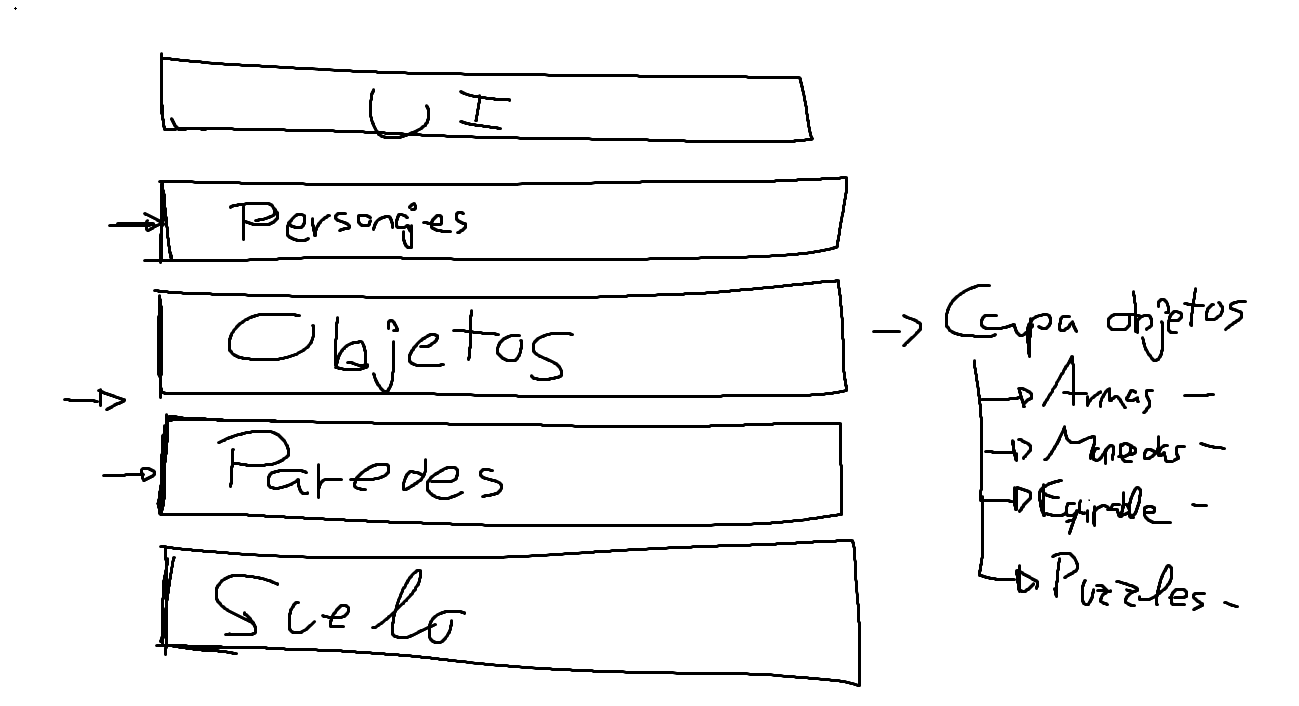
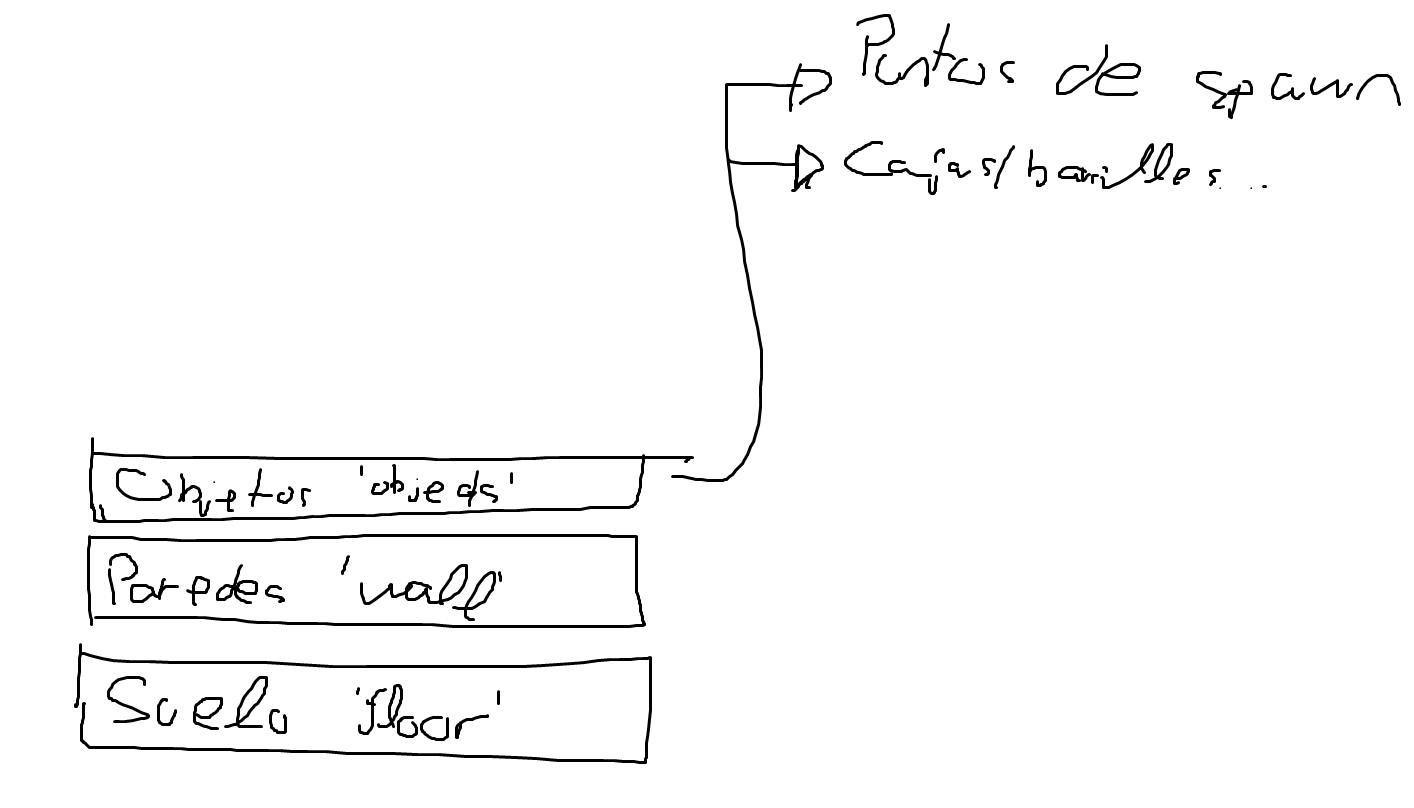
Intento avances monedas

diff --git a/src/scenes/BaseScene.js b/src/scenes/BaseScene.js
@@ -1,7 +1,6 @@
 import Phaser from 'phaser'
 import Player from '../game-objects/characters/Player.js'
 import Bullet from '../game-objects/base-game-objects/Bullet.js'
-import ExtendedEnemy from '../game-objects/characters/ExtendedEnemy.js'
 import Coin from '../game-objects/objects/Coin.js'
 import Options from '../options-manager/Options.js'
 
@@ -10,8 +9,8 @@ export default class BaseScene extends Phaser.Scene {
 
     static LAYER_SUELO = 'floor'
     static LAYER_PARED = 'wall'
-    static LAYER_OBJETO = 'butano'
-    static LAYER_PERSONAJE = 'Personaje'
+    static LAYER_OBJETO = 'decoration'
+    static LAYER_PERSONAJE = 'characters'
 
 
     constructor(sceneKey){
@@ -22,14 +21,15 @@ export default class BaseScene extends Phaser.Scene {
     // IMPORTANTE - cualquier escena que herede de esta clase debe invocar 
     // SIEMPRE esta funcion con super.create()
     create(map, tileset){
-        
-        this.#config_eventos()
 
         // Capas de todos los niveles
         this._layerSuelo = map.createLayer(BaseScene.LAYER_SUELO, tileset, 0, 0)
         this._layerPared = map.createLayer(BaseScene.LAYER_PARED, tileset, 0, 0)
         this._layerObjeto = map.createLayer(BaseScene.LAYER_OBJETO, tileset, 0, 0)
         this._layerPersonaje = map.createLayer(BaseScene.LAYER_PERSONAJE, tileset, 0, 0)
+
+        // Crear clase de ajustes
+        this._options = Options.get_instance()
 
         //musica
         //this.ambient = this.sound.add('ambiente')
@@ -44,9 +44,6 @@ export default class BaseScene extends Phaser.Scene {
         // Crear personajes
         this._player = this.config_jugador(1000, 1000)
         var enemigos = this.config_enemigos()
-
-        const moneda = new Coin(this, 1000, 900)
-        moneda.interactuar(this._player)
 
         // Configuraciones generales
         this.config_iluminacion([this._layerSuelo, this._layerPared, this._layerObjeto])
@@ -86,7 +83,7 @@ export default class BaseScene extends Phaser.Scene {
         })
 
         // Crear el grupo global de balas
-        this.bullets = this.physics.add.group();
+        this._grupoBalas = this.physics.add.group();
         const onBulletCollision = (obj1, obj2) => {
 
             let bullet = obj1 instanceof Bullet ? obj1 : obj2;
@@ -101,13 +98,23 @@ export default class BaseScene extends Phaser.Scene {
                 bullet.destroy();
             }
         };
-        this.physics.add.collider(this.bullets, this._layerPared, onBulletCollision);
-        this.physics.add.collider(this.bullets, this._player, onBulletCollision);
-        this.physics.add.collider(this.bullets, this._butanoColliders, onBulletCollision);
+        this.physics.add.collider(this._grupoBalas, this._layerPared, onBulletCollision);
+        this.physics.add.collider(this._grupoBalas, this._player, onBulletCollision);
+        this.physics.add.collider(this._grupoBalas, this._butanoColliders, onBulletCollision);
         enemigos.forEach(enemigo => {
-            this.physics.add.collider(this.bullets, enemigo, onBulletCollision);
+            this.physics.add.collider(this._grupoBalas, enemigo, onBulletCollision);
         })
 
+        // Grupo global de objetos interactuables TODO
+        this._grupoObjectos = this.physics.add.staticGroup()
+        this.physics.add.overlap(this._player, this._grupoObjectos)
+        this.physics.world.on('overlap', (gameobject1, gameobject2, body1, body2) => {
+            console.log(gameobject1)
+        })
+
+        // Configuracion de eventos
+        this.#config_eventos()
+        
         // Crear la animación de la chispa (si no existe)
         if (!this.anims.exists('spark')) {
             this.anims.create({
@@ -152,15 +159,7 @@ export default class BaseScene extends Phaser.Scene {
     }
 
     config_enemigos(){
-
-        var enemigos = []
-        var unEnemigo = new ExtendedEnemy(this, 1500, 1500)
-        unEnemigo.body.setCollideWorldBounds(true)
-        unEnemigo.body.setImmovable(true)
-
-        enemigos.push(unEnemigo)
-
-        return enemigos
+        return null;
     }
 
     config_iluminacion(capas){

diff --git a/src/options-manager/Options.js b/src/options-manager/Options.js
@@ -9,19 +9,29 @@
 */
 export default class Options {
 
-    static MAX_VOLUMEN = 1
+    static instance = null
+
+    static MAX_VOLUMEN = 2
     static TECLA = 'keydown-ESC'
     #volumen_general
     #volumen_musica
     #volumen_efectos_sonido
 
-    constructor(){
 
+    constructor(){
         this.#volumen_general = 0.5
         this.#volumen_musica = 0.5
         this.#volumen_efectos_sonido = 0.5
     }
 
+    
+    static get_instance(){
+
+        if(Options.instance == null)
+            Options.instance = new Options()
+        
+        return Options.instance;
+    }
 
     cambiar_volumen_general(volumen){
         this.#volumen_general = Phaser.Math.Clamp(volumen, 0, Options.MAX_VOLUMEN)
@@ -34,5 +44,18 @@ export default class Options {
     cambiar_volumen_efectos(volumen){
         this.#volumen_efectos_sonido = Phaser.Math.Clamp(volumen, 0, Options.MAX_VOLUMEN)
     }
+
+    get_volumen_general(){
+        return this.#volumen_general;
+    }
+
+    get_volumen_musica(){
+        return this.#volumen_musica;
+    }
+
+    get_volumen_efectos_sonido(){
+        return this.#volumen_efectos_sonido;
+    }
+
 
 }

diff --git a/src/scenes/tutorial.js b/src/scenes/tutorial.js
@@ -1,5 +1,7 @@
 import Phaser from 'phaser'
 import BaseScene from './BaseScene.js'
+import ExtendedEnemy from '../game-objects/characters/ExtendedEnemy.js'
+import Coin from '../game-objects/objects/Coin.js'
 
 
 export default class Tutorial extends BaseScene {
@@ -10,10 +12,24 @@ export default class Tutorial extends BaseScene {
 
     create(){
 
-        var map = this.make.tilemap({ key: 'map', tileWidth: 111, tileHeight: 111 })
-        var tileset = map.addTilesetImage('tilemap', 'tiles')
+        var map = this.make.tilemap({ key: 'tutorialMap', tileWidth: 111, tileHeight: 111 })
+        var tileset = map.addTilesetImage('Tilemap', 'tiles')
 
         super.create(map, tileset)
+
+        const moneda = new Coin(this, 850, 1000)
+    }
+
+    config_enemigos(){
+
+        var enemigos = []
+        var unEnemigo = new ExtendedEnemy(this, 1500, 1500)
+        unEnemigo.body.setCollideWorldBounds(true)
+        unEnemigo.body.setImmovable(true)
+
+        enemigos.push(unEnemigo)
+
+        return enemigos
     }
 
     onLaserHit(player, laser) {

diff --git a/src/game-objects/base-game-objects/Interactive.js b/src/game-objects/base-game-objects/Interactive.js
@@ -6,21 +6,25 @@ export default class Interactive extends Phaser.GameObjects.Sprite {
     radius = 0
     rangoAccion
 
+
     constructor(scene, x, y, texture, radius){
         super(scene, x, y, texture)
 
         this.radius = radius
         this.rangoAccion = new Phaser.GameObjects.Ellipse(scene, x, y, this.radius, this.radius, 0xff0000, 0.2)
         this.rangoAccion.setVisible(this.scene.game.config.physics.arcade.debug)    // Mostrar solo si debug esta a true
+        this.rangoAccion.setOrigin(0.5)
         this.scene.add.existing(this.rangoAccion)
     }
 
     interactuar(gameobject){
-        throw new Error(`La clase '${this.constructor.name}' debe implementar la funcion '${this.interactuar.name}()'`)
+        
+        if(this.active && this.esta_dentro_de_rango(gameobject.x, gameobject.y))
+            console.log('DENTRO')
     }
 
     esta_dentro_de_rango(x, y){
-        return 
+        return Phaser.Math.Distance.Between(this.x, this.y, x, y) < (this.radius / 2)
     }
 
     set_interactive(state){

diff --git a/src/scenes/boot.js b/src/scenes/boot.js
@@ -18,6 +18,7 @@ import Explode from '../../assets/effects/explode.png'
 // Mapas
 import TilemapImage from '../../assets/blocks/tilemap.png'
 import Map from '../../assets/maps/map1.json'
+import TutorialMap from '../../assets/maps/tutorial_mapa.json'
 
 //Objetos 
 import Paper from '../../assets/objects/paper.png'
@@ -70,6 +71,7 @@ export default class Boot extends BaseScene {
         
         // Mapas
         this.load.tilemapTiledJSON('map', Map);
+        this.load.tilemapTiledJSON('tutorialMap', TutorialMap);
 
         // Spritesheets
         this.load.spritesheet('playerIdle', CharacterIdle, { frameWidth: 111 , frameHeight: 108 });

diff --git a/src/game-objects/objects/Coin.js b/src/game-objects/objects/Coin.js
@@ -7,9 +7,17 @@ export default class Coin extends Object {
     constructor(scene, x, y){
         super(scene, x, y, 'coinIcon', 140)
         this.setScale(0.015)
+        this.setOrigin(0.5)
+        this.body.setSize(200, 200)
+        this.body.setOffset(0, 0)
     }
 
-    interactuar(gameobject){
 
+    preUpdate(){
+        
+        var player = this.scene._player ? this.scene._player : null
+        if(player)
+            this.interactuar(player)
     }
+
 }

diff --git a/src/game-objects/base-game-objects/Note.js b/src/game-objects/base-game-objects/Note.js
@@ -29,7 +29,7 @@ export default class Note extends InteractiveObject {
   
   update() {
     // Ocultar el texto de interacción si el jugador se aleja
-    if (Phaser.Math.Distance.Between(this.x, this.y, this.scene._player.x, this.scene._player.y) > 100) {
+    if (this.esta_dentro_de_rango(this.scene._player.x, this.scene._player.y)) {
       this.interactionText.setVisible(false);
     }
     // Al pulsar E, alterna la ventana

diff --git a/src/game-objects/base-game-objects/RangeWeapon.js b/src/game-objects/base-game-objects/RangeWeapon.js
@@ -52,7 +52,7 @@ export default class RangeWeapon extends Weapon {
         // Crear la bala en la posición del arma
         const bullet = new Bullet(this.scene, bulletX, bulletY, this._ammo.texture, this._specs.damage);
         this.scene.add.existing(bullet);
-        this.scene.bullets.add(bullet);
+        this.scene._grupoBalas.add(bullet);
         bullet.fire(bulletX, bulletY, angle, this._specs.bulletSpeed);
     }
 

diff --git a/src/game-objects/base-game-objects/Object.js b/src/game-objects/base-game-objects/Object.js
@@ -6,6 +6,7 @@ export default class Object extends Interactive {
     constructor(scene, x, y, texture, radius){
         super(scene, x, y, texture, radius)
         this.scene.add.existing(this)
+        this.scene._grupoObjectos.add(this)
     }
 
 }
